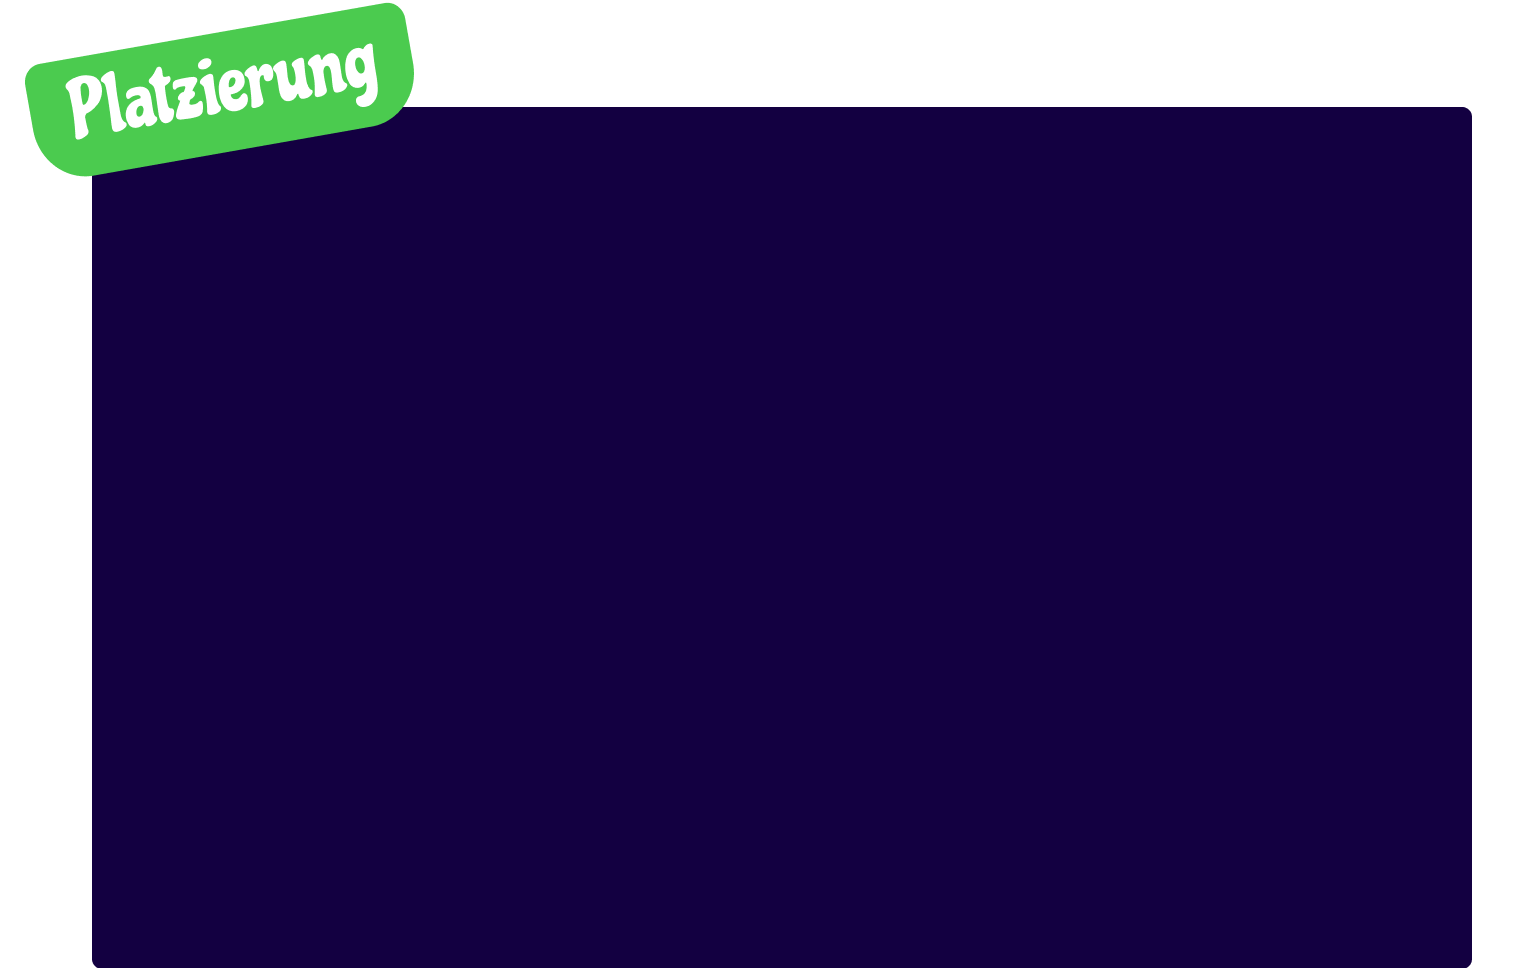
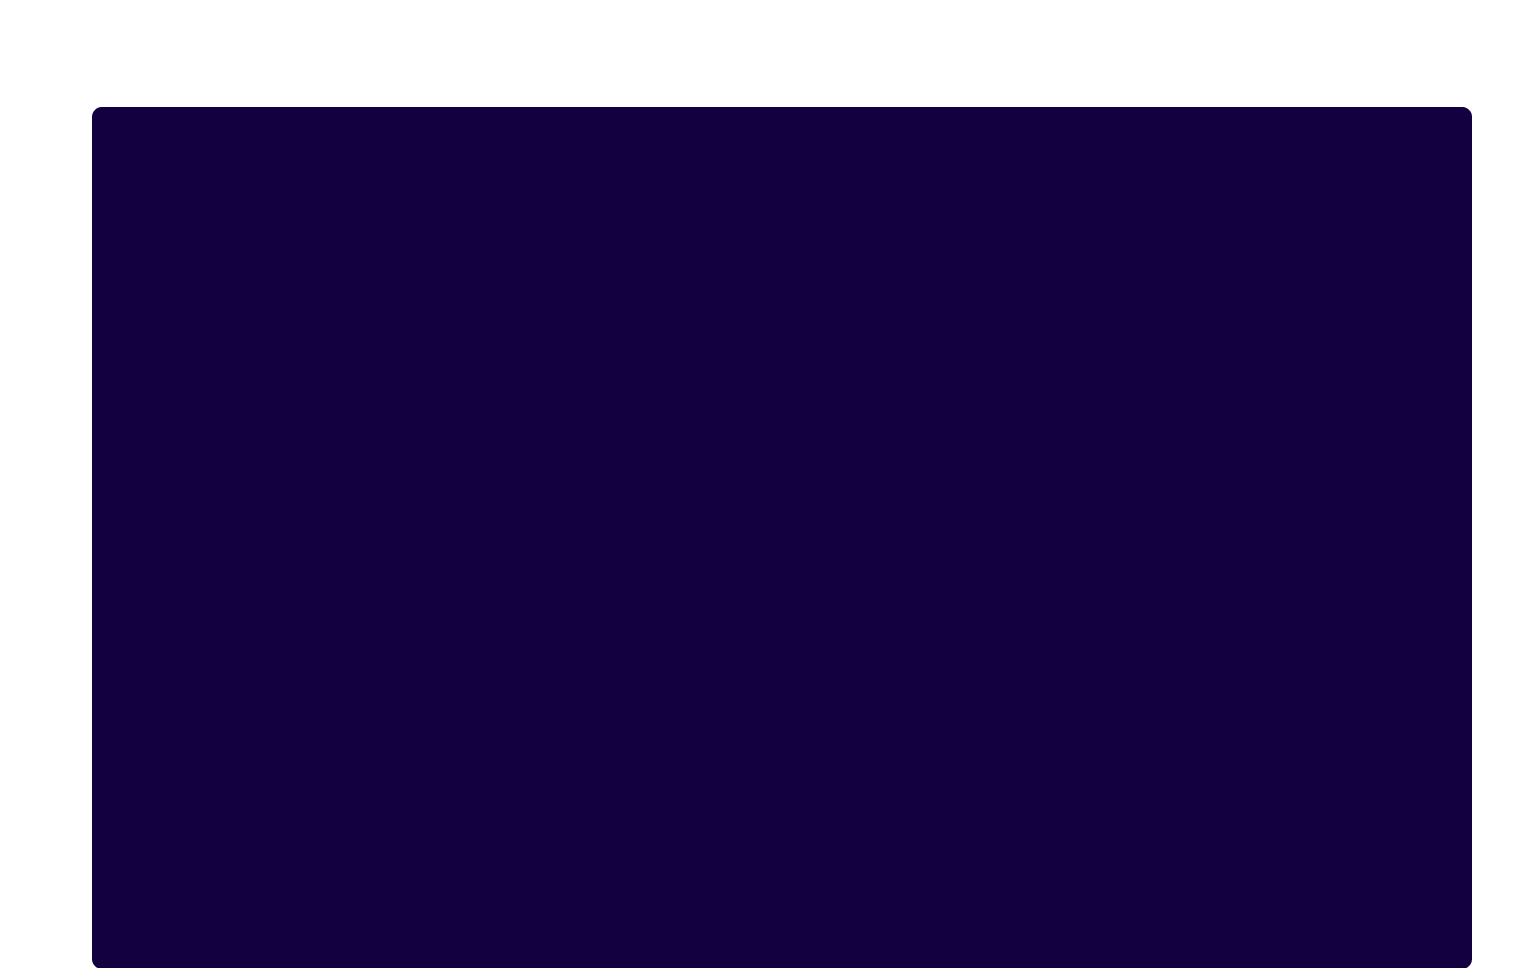
Changes by MarcW

Changed region(s): [[0.0, 0.0, 0.2776, 0.186]]

diff --git a/src/main/resources/player/style/LeaderBoardStyle.css b/src/main/resources/player/style/LeaderBoardStyle.css
@@ -1,0 +1,56 @@
+/* Base transparency*/
+.table-view{
+    -fx-base: transparent;
+}
+
+/* transparency*/
+.table-view,
+.table-view .column-header,
+.table-view .column-header-background,
+.table-view .column-header-background .filler{
+    -fx-background-color:transparent;
+}
+
+/*color for cell*/
+.table-row-cell{
+    -fx-background-color: -fx-table-cell-border-color, rgba(65,23,167,1);
+}
+
+/* header font */
+.table-view .column-header .label {
+    -fx-text-fill : white;
+    -fx-font-size: 20px;
+}
+
+/* cell border transparency*/
+.table-view .table-cell{
+    -fx-border-width:0 0 0 0;
+    -fx-padding : 16 0 16 0 ;
+}
+
+/* font of table items*/
+.table-view .table-column{
+    -fx-text-alignment: center;
+    -fx-alignment: center;
+    -fx-text-fill: white;
+    -fx-font-size: 20px;
+    -fx-font-family: Chicle;
+    -fx-font-weight: bold;
+}
+
+/* empty item get transparency*/
+.table-row-cell:empty {
+-fx-background-color:transparent;
+ }
+
+/* hide scroll-bars */
+ .table-view .scroll-bar * {
+       -fx-min-width: 0;
+     -fx-pref-width: 0;
+     -fx-max-width: 0;
+
+     -fx-min-height: 0;
+     -fx-pref-height: 0;
+     -fx-max-height: 0;
+   }
+

diff --git a/src/main/java/de/thundergames/gameplay/player/ui/Score/LeaderBoard.java b/src/main/java/de/thundergames/gameplay/player/ui/Score/LeaderBoard.java
@@ -21,6 +21,8 @@ import org.jetbrains.annotations.NotNull;
 import java.io.IOException;
 import java.net.URL;
 import java.util.ArrayList;
+import java.util.HashMap;
+import java.util.HashSet;
 import java.util.ResourceBundle;
 
 public class LeaderBoard implements Initializable {
@@ -41,13 +43,13 @@ public class LeaderBoard implements Initializable {
 
   @FXML
   public void initialize(URL location, ResourceBundle resources) {
+    scoreTable.setSelectionModel(null);
     client = Client.getClient();
     placement.setCellValueFactory(new PropertyValueFactory<>("placement"));
     name.setCellValueFactory(new PropertyValueFactory<>("name"));
     score.setCellValueFactory(new PropertyValueFactory<>("score"));
 
     if (client == null) return;
-    //var score = client.getGameState().getScore();
     createLeaderbord();
   }
 
@@ -58,54 +60,74 @@ public class LeaderBoard implements Initializable {
    * @see NetworkPlayer
    */
   void createLeaderbord() {
-    ArrayList<PlayerResult> test = new ArrayList<PlayerResult>();
-    test.add(new PlayerResult("Marc",100,1));
-    test.add(new PlayerResult("Max",90,2));
 
-    scoreTable.getItems().addAll(test);
+    client.getClientPacketHandler().getScorePacket(client);  //Muss evtl raus.
+    Score score = client.getGameState().getScore();
+
+    var list = new ArrayList<NetworkPlayer>();
+
+    var players = new ArrayList<>(score.getPlayers());
+
+    //sort players in list by their points
+    for (var i = 0; i < score.getPlayers().size(); i++) {
+      var current = players.get(0);
+      for (var player : players) {
+        if (score.getPoints().get(player.getClientID()) > score.getPoints().get(current.getClientID())) {
+          current = player;
+        }
+      }
+      players.remove(current);
+      list.add(current);
+    }
+
+    //fill sorted players with their placement, name and points into leaderlist
+    ArrayList<PlayerResult> leaderlist = new ArrayList<>();
+    int lastPoints = -999999999;
+    int lastPlace = 0;
+    int thisPlace = 0;
+    for (int place = 0; place < list.size(); place++) {
+      //if two players have equal points they get the same placement
+      if  (lastPoints == score.getPoints().get(list.get(place).getClientID())){
+        thisPlace = lastPlace;
+      }
+      else{
+        thisPlace = lastPlace+1;
+      }
+      leaderlist.add(new PlayerResult(
+        list.get(place).getName(),
+        score.getPoints().get(list.get(place).getClientID()),
+        thisPlace));
+      lastPoints = score.getPoints().get(list.get(place).getClientID());
+      lastPlace = thisPlace;
+    }
+    scoreTable.getItems().addAll(leaderlist);
   }
-  //  var list = new ArrayList<NetworkPlayer>();
-  //  var players = new ArrayList<>(score.getPlayers());
-  //  var current = players.get(0);
-  ////  int currentPoints = 0;
-  ////  var pointsList = new ArrayList<NetworkPlayer>();
-  ////  for (var i = 0; i < score.getPlayers().size(); i++) {
-  ////    for (var player : players) {
-  ////      if (score.getPoints().get(player.getClientID()) > score.getPoints().get(current.getClientID())) {
-  ////        current = player;
-  ////        currentPoints = score.getPoints().get(player.getClientID();
-  ////      }
-  ////    }
-  ////    players.remove(current);
-  ////    list.add(current);
-  ////    pointsList.add(currentPoints);
-//
-  //  }
-    //players in list are sorted by their points
-    //for (int place = 0; place < list.length(); place++) {
-      //var row = place + "         " + list.get(place).getName() + "       " + score.getPoints().get(list.get(place).getClientID()) + "\n";
-      //leaderboard.setText(leaderboard.getText() + row);
-      //placeCol.getItems().add(place);
-      //playerCol.getItems().add(list.get(place).getName());
-      //placeCol.getItems().add(score.getPoints().get(list.get(place).getClientID()));
-  //  }
-  //}
 
+
+  /**
+   * Create the Scene for LeaderBoard
+   *
+   * @param event event from the current scene to build this scene on same object
+   * @throws IOException error creating the scene LeaderBoard
+   */
   public void create(@NotNull ActionEvent event) throws Exception {
     Stage primaryStage = (Stage) ((Node) event.getSource()).getScene().getWindow();
+    primaryStage.close();
+
+    Stage stage = new Stage();
     // Set scene
     var loader = SceneController.loadFXML("player/LeaderBoard.fxml");
     loader.setController(this);
     Parent root = loader.load();
-    primaryStage.setTitle("Maulwurf Company");
-    primaryStage.setResizable(false);
-    primaryStage.setScene(new Scene(root));
-    primaryStage.show();
-    primaryStage.setOnCloseRequest(ev -> logout(primaryStage));
+    stage.setTitle("Maulwurf Company");
+    stage.setResizable(false);
+    stage.setScene(new Scene(root));
+    stage.show();
+    stage.setOnCloseRequest(ev -> logout(stage));
 
     // region Create button events
-    // set event for back button
-    var btnBack = (Button) (primaryStage.getScene().lookup("#btnToMenu"));
+    // set event for backToMenu button
+    var btnBack = (Button) (stage.getScene().lookup("#btnToMenu"));
     btnBack.setOnAction(
       e -> {
         try {
@@ -136,5 +158,4 @@ public class LeaderBoard implements Initializable {
   void backToMenu(ActionEvent event) throws IOException {
     new PlayerMenu().create(event);
   }
-
 }

diff --git a/src/main/java/de/thundergames/gameplay/player/ui/gameselection/GameSelection.java b/src/main/java/de/thundergames/gameplay/player/ui/gameselection/GameSelection.java
@@ -13,6 +13,7 @@ package de.thundergames.gameplay.player.ui.gameselection;
 
 import de.thundergames.gameplay.player.Client;
 import de.thundergames.gameplay.player.ui.PlayerMenu;
+import de.thundergames.gameplay.player.ui.Score.LeaderBoard;
 import de.thundergames.gameplay.util.SceneController;
 import de.thundergames.networking.util.interfaceItems.NetworkGame;
 import de.thundergames.playmechanics.game.GameState;
@@ -167,6 +168,7 @@ public class GameSelection implements Initializable {
     client.getClientPacketHandler().joinGamePacket(client, selectedItem.getGameID(), false);
     // Get GameState
     GameState currentGameState = client.getGameState();
+
     if (currentGameState == null) {
       System.out.println("GameSelection: GameState is null");
       return;
@@ -177,15 +179,18 @@ public class GameSelection implements Initializable {
     } else if (Objects.equals(currentGameState.getStatus(), GameStates.NOT_STARTED.toString())) {
       new LobbyObserverGame().create(event);
     } else if (Objects.equals(currentGameState.getStatus(), GameStates.OVER.toString())) {
-      loadScoreboard();
+      loadScoreboard(event);
     }
   }
 
   /** Load scene of scoreboard */
-  private void loadScoreboard() {
+  private void loadScoreboard(ActionEvent event) {
     client.getClientPacketHandler().getScorePacket(client);
-    var gameScore = client.getGameState().getScore();
-    // Todo:Open scene of ScoreBoard
+    try {
+      new LeaderBoard().create(event);
+    } catch (Exception e) {
+      e.printStackTrace();
+    }
   }
 
   /** Load scene of game */

diff --git a/src/main/java/de/thundergames/gameplay/player/networking/ClientPacketHandler.java b/src/main/java/de/thundergames/gameplay/player/networking/ClientPacketHandler.java
@@ -567,6 +567,7 @@ public class ClientPacketHandler {
   protected void handleGameCanceledPacket(
     @NotNull final Client client, @NotNull final Packet packet) {
     updateTableView();
+    //TODO: Rufe Leaderboard auf
   }
 
   /**
@@ -579,6 +580,7 @@ public class ClientPacketHandler {
   protected void handleGameContinuedPacket(
     @NotNull final Client client, @NotNull final Packet packet) {
     updateTableView();
+    //TODO: Rufe leaderboard auf
   }
 
   /**
